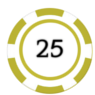
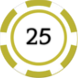
Add files via upload
Es funktioniert zwar absolut nichts mehr... aber die Spiel-Card ist in einer Methode theorethisch implementiert und der src Ordner ist aufgeräumt, außerdem haben die Chips jetzt die richtige Auflösung

diff --git a/Game.java b/Game.java
@@ -52,6 +52,16 @@ public class Game extends JPanel
     private JLabel lChipBar;
     private JLabel bet;
     
+    private Image white;
+    private Image iDouble;
+    private Image iHit;
+    private Image iStand;
+    private JButton buttonHit;
+    private JButton buttonStand;
+    private JButton buttonDouble;
+    private JLabel box1;
+    private JLabel box2; 
+    private Image box;
     JPanel cardGame;
     JPanel cardMenu;
     JPanel cards;
@@ -70,7 +80,7 @@ public class Game extends JPanel
     private void game()
     {
         
-        ImageIcon iiBackground = new ImageIcon("src/resources/background4.png");
+        ImageIcon iiBackground = new ImageIcon("src/resources/background.png");
         background = iiBackground.getImage();
         
         int w = background.getWidth(this);
@@ -98,11 +108,11 @@ public class Game extends JPanel
         buttonReset.setBorderPainted(false);
         add(buttonReset);
         buttonReset.addActionListener(new ActionListener() {
-			public void actionPerformed(ActionEvent evt) {
-			    player.reset();
-			    gameloop(-1);
-			}
-		});
+            public void actionPerformed(ActionEvent evt) {
+                player.reset();
+                gameloop(-1);
+            }
+        });
         
         buttonAllIn=new JButton();
         buttonAllIn.setBounds(140,420,95,95);
@@ -115,11 +125,11 @@ public class Game extends JPanel
         buttonAllIn.setBorderPainted(false);
         add(buttonAllIn);
         buttonAllIn.addActionListener(new ActionListener() {
-			public void actionPerformed(ActionEvent evt) {
-			    player.allIn();
-			    gameloop(-1);
-			}
-		});
+            public void actionPerformed(ActionEvent evt) {
+                player.allIn();
+                gameloop(-1);
+            }
+        });
         
         buttonDeal=new JButton();
         buttonDeal.setBounds(250,380,95,95);
@@ -132,18 +142,19 @@ public class Game extends JPanel
         buttonDeal.setBorderPainted(false);
         add(buttonDeal);
         buttonDeal.addActionListener(new ActionListener() {
-			public void actionPerformed(ActionEvent evt) {
-			    
-			    if (player.deal() == 0)
+            public void actionPerformed(ActionEvent evt) {
+                
+                if (player.deal() == 0)
                             {
                                 removeAll();
                                 dealer.deal();
                                 drawCards();
+                                initComponents2();
                                 state = 2;
                             }
-			    gameloop(-1);
-			}
-		});
+                gameloop(-1);
+            }
+        });
         
         button25= new JButton();
         button25.setBounds(10,558,95,95);
@@ -155,13 +166,13 @@ public class Game extends JPanel
         button25.setBorderPainted(false);
         add(button25);
         button25.addActionListener(new ActionListener() {
-			public void actionPerformed(ActionEvent evt) {
-			    player.bet(25);
-			    gameloop(-1);
-			}
-		});
-		
-	button100= new JButton();
+            public void actionPerformed(ActionEvent evt) {
+                player.bet(25);
+                gameloop(-1);
+            }
+        });
+        
+    button100= new JButton();
         button100.setBounds(97,560,95,95);
         ImageIcon iiChip100 = new ImageIcon("src/resources/chip100.png");
         chip100= iiChip100.getImage();
@@ -171,13 +182,13 @@ public class Game extends JPanel
         button100.setBorderPainted(false);
         add(button100);
         button100.addActionListener(new ActionListener() {
-			public void actionPerformed(ActionEvent evt) {
-			    player.bet(100);
-			    gameloop(-1);
-			}
-		});
-		
-	button500= new JButton();
+            public void actionPerformed(ActionEvent evt) {
+                player.bet(100);
+                gameloop(-1);
+            }
+        });
+        
+    button500= new JButton();
         button500.setBounds(181,559,95,95);
         ImageIcon iiChip500 = new ImageIcon("src/resources/chip500.png");
         chip500= iiChip500.getImage();
@@ -187,13 +198,13 @@ public class Game extends JPanel
         button500.setBorderPainted(false);
         add(button500);
         button500.addActionListener(new ActionListener() {
-			public void actionPerformed(ActionEvent evt) {
-			    player.bet(500);
-			    gameloop(-1);
-			}
-		});
-		
-	button1000= new JButton();
+            public void actionPerformed(ActionEvent evt) {
+                player.bet(500);
+                gameloop(-1);
+            }
+        });
+        
+    button1000= new JButton();
         button1000.setBounds(266,559,95,95);
         ImageIcon iiChip1000 = new ImageIcon("src/resources/chip1000.png");
         chip1000= iiChip1000.getImage();
@@ -203,11 +214,11 @@ public class Game extends JPanel
         button1000.setBorderPainted(false);
         add(button1000);
         button1000.addActionListener(new ActionListener() {
-			public void actionPerformed(ActionEvent evt) {
-			    player.bet(1000);
-			    gameloop(-1);
-			}
-		});
+            public void actionPerformed(ActionEvent evt) {
+                player.bet(1000);
+                gameloop(-1);
+            }
+        });
         
         lChipBar= new JLabel();
         lChipBar.setBounds(5,561,375,105);
@@ -217,6 +228,62 @@ public class Game extends JPanel
         add(lChipBar);
         
         
+    }
+    public void initComponents2(){
+        buttonHit= new JButton();
+        buttonHit.setBounds(60,495,95,95);
+        ImageIcon iiHit = new ImageIcon("src/resources/buttonHit.png");
+        iHit= iiHit.getImage();
+        buttonHit.setIcon(iiHit);
+        buttonHit.setOpaque(false);
+        buttonHit.setContentAreaFilled(false);
+        buttonHit.setBorderPainted(false);
+        add(buttonHit);
+        buttonHit.addActionListener(new ActionListener() {
+            public void actionPerformed(ActionEvent evt) {
+                player.hit();
+            }
+        });
+        
+        buttonStand= new JButton();
+        buttonStand.setBounds(190,565,95,95);
+        ImageIcon iiStand = new ImageIcon("src/resources/buttonStand.png");
+        iStand= iiStand.getImage();
+        buttonStand.setIcon(iiStand);
+        buttonStand.setOpaque(false);
+        buttonStand.setContentAreaFilled(false);
+        buttonStand.setBorderPainted(false);
+        add(buttonStand);
+        buttonStand.addActionListener(new ActionListener() {
+            public void actionPerformed(ActionEvent evt) {
+                player.stand();
+            }
+        });
+        
+        buttonDouble= new JButton();
+        buttonDouble.setBounds(315,495,95,95);
+        ImageIcon iiDouble = new ImageIcon("src/resources/buttonDouble.png");
+        iDouble= iiDouble.getImage();
+        buttonDouble.setIcon(iiDouble);
+        buttonDouble.setOpaque(false);
+        buttonDouble.setContentAreaFilled(false);
+        buttonDouble.setBorderPainted(false);
+        add(buttonDouble);
+        buttonDouble.addActionListener(new ActionListener() {
+            public void actionPerformed(ActionEvent evt) {
+                //player.double();
+            }
+        });
+        
+        box1= new JLabel();
+        box1.setLocation(170,60);
+        ImageIcon iibox = new ImageIcon("src/resources/box.png");
+        box= iibox.getImage();
+        box1.setIcon(iibox);
+        
+        box2= new JLabel();
+        box2.setLocation(170,315);
+        box2.setIcon(iibox);
     }
     public void gameloop(int element)
     {
